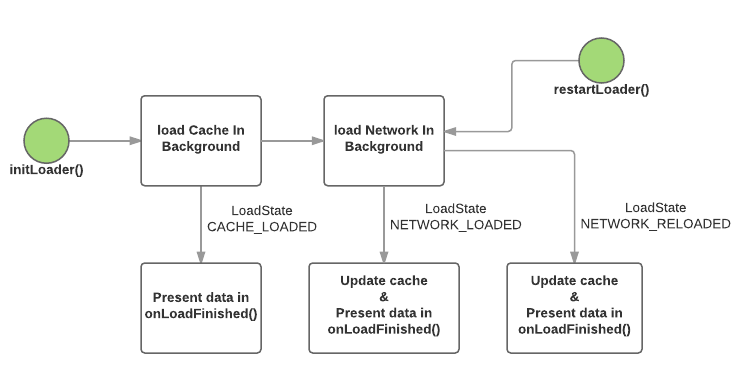
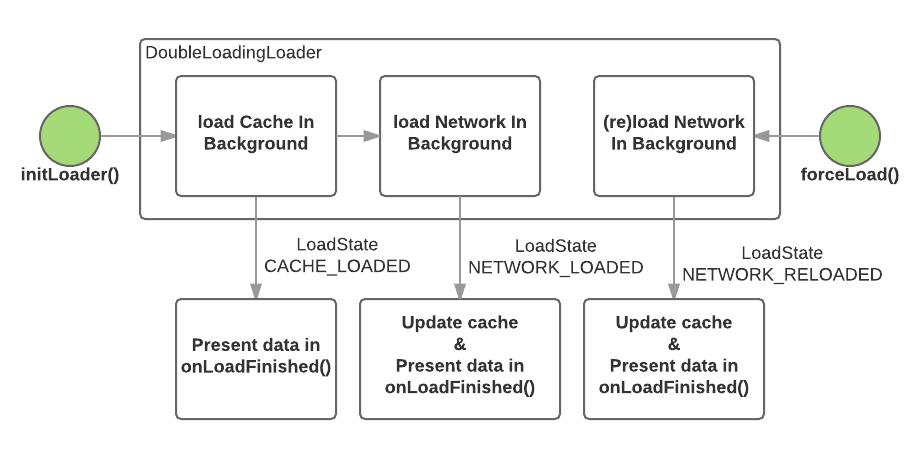
Turns out restartLoader did not work like I thought it did. ForceLoad is the man for this situation via getLoaderManager#getLoader(LOADER_ID)

Changed region(s): [[0.155, 0.4668, 0.9919, 0.9629], [0.0, 0.0584, 0.9919, 0.4668]]

diff --git a/library/src/main/java/il/co/galex/dll/util/DoubleLoaderUtils.java b/library/src/main/java/il/co/galex/dll/util/DoubleLoaderUtils.java
@@ -1,5 +1,6 @@
 package il.co.galex.dll.util;
 
+import android.support.annotation.Nullable;
 import android.support.v4.content.Loader;
 
 import il.co.galex.dll.loader.DoubleLoading;
@@ -12,6 +13,7 @@ import il.co.galex.dll.model.LoadState;
 
 public class DoubleLoaderUtils {
 
+    @Nullable
     public static LoadState getLoadState(Loader loader){
 
         if (loader instanceof DoubleLoading){
@@ -19,5 +21,10 @@ public class DoubleLoaderUtils {
             return doubleLoading.getLoadState();
         }
         return null;
+    }
+
+    public static void restartNetwork(Loader loader) {
+
+        loader.forceLoad();
     }
 }

diff --git a/library/src/main/java/il/co/galex/dll/loader/DoubleLoadingBaseAsyncLoader.java b/library/src/main/java/il/co/galex/dll/loader/DoubleLoadingBaseAsyncLoader.java
@@ -61,7 +61,7 @@ public abstract class DoubleLoadingBaseAsyncLoader<D> extends Loader<D> implemen
     @Override
     synchronized protected void onForceLoad() {
 
-        if (debug) Log.d(TAG, "onForceLoad() called");
+        if (debug) Log.d(TAG, "onForceLoad() called, current loadState = " + loadState);
 
         if (loadState == null) {
 

diff --git a/README.md b/README.md
@@ -1,11 +1,11 @@
-# Double Loading Loaders (1.0.4)
+# Double Loading Loaders (1.1.0)
 ## Introduction
 
 Loader to implement the following flow:
 
 - Load in the background the cache and present the data
 - Load in the background the data via a network request, update the cache and represent the data
-- Restart the loader to restart the flow from the network request only
+- ForceLoad() on the loader to restart the flow from the network request only
 - Determine on onLoadFinished() in which Load State we are
 ![alt text](https://github.com/galex/double-loading-loaders/raw/master/double-loading-loaders-flow.png "Double Loading Loaders Flow")
 ## Usage
@@ -17,7 +17,7 @@ repositories {
 }
 dependencies {
     (...)
-    compile 'il.co.galex:double-loading-loaders:1.0.4'
+    compile 'il.co.galex:double-loading-loaders:1.1.0'
 }
 ```
 
@@ -43,8 +43,8 @@ public class ChatLoader extends DoubleLoadingAsyncLoader<List<Chat>> {
 
     @Override
     public List<Chat> loadNetworkInBackground() {
-        chatDao.insertOrUpdate(ApiHelper.getUserChats(uuid));
-        return chatDao.findAll();
+        chatDao.insertOrUpdate(ApiHelper.getUserChats(uuid)); // API call + Update of Database
+        return chatDao.findAll(); // reload from database as the data is merged by the previous line
     }
 }
 ```
@@ -62,7 +62,6 @@ in **onLoadFinished()**, to determine in what step of the flow we are, use **Dou
         }
 
         // TODO set data in your adapter
-        (...)
     }
 ```
 
